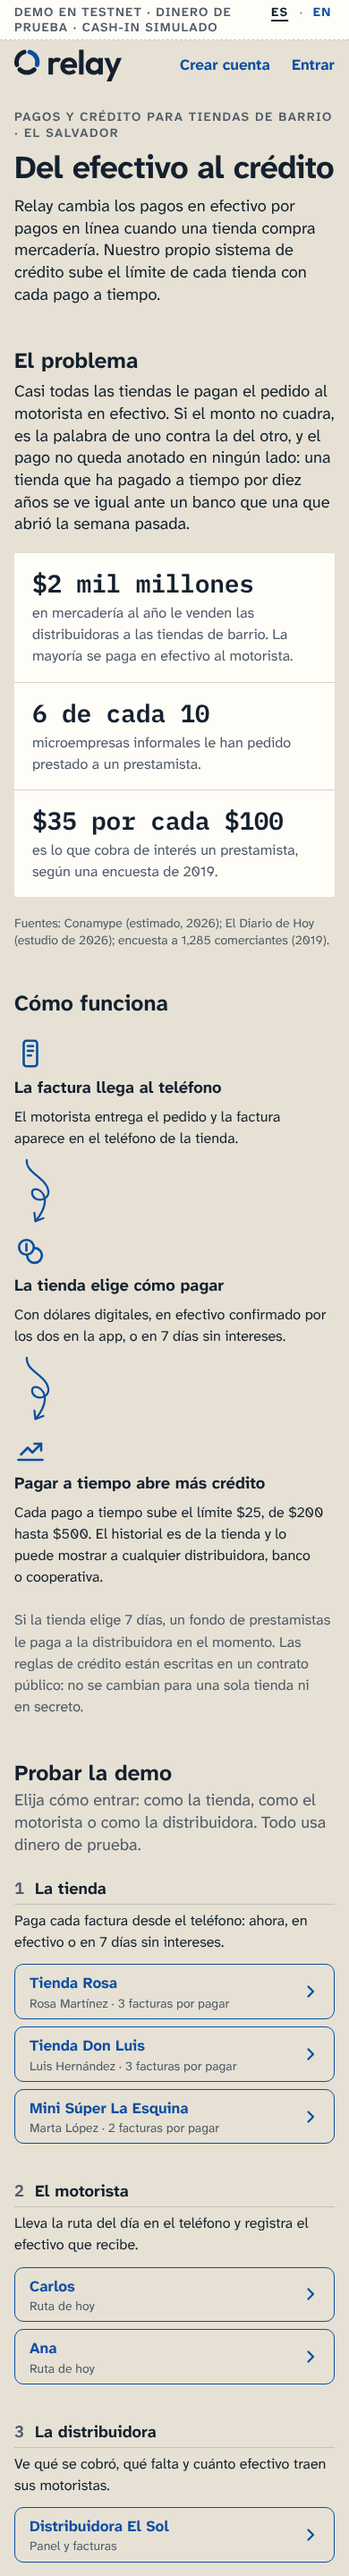
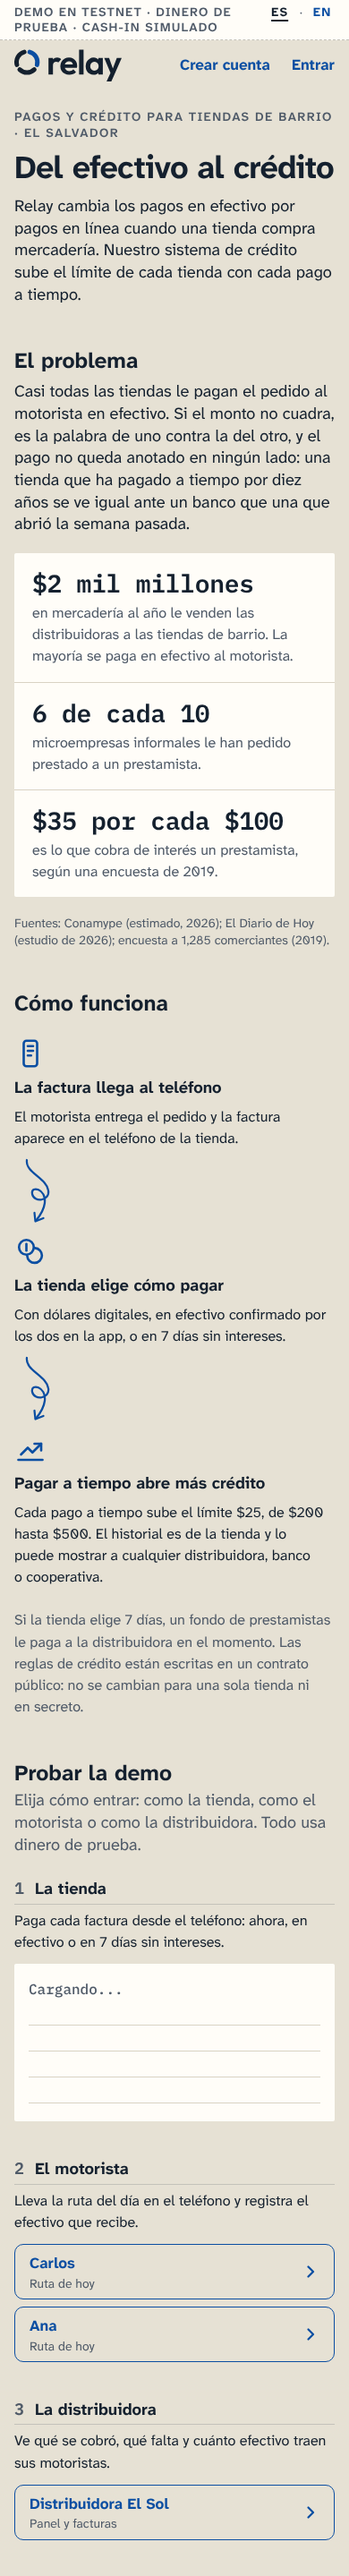
Home: drop "own" from the credit sentence
Claude-Session: https://claude.ai/code/session_012ShQukY565b6Ed76kj7NKX

Changed region(s): [[0.0308, 0.7422, 0.9846, 0.9896], [0.0615, 0.0928, 0.8615, 0.1237]]

diff --git a/app/page.tsx b/app/page.tsx
@@ -127,8 +127,8 @@ export default function Home() {
           </h1>
           <p className="text-lead text-pretty">
             <T
-              es="Relay cambia los pagos en efectivo por pagos en línea cuando una tienda compra mercadería. Nuestro propio sistema de crédito sube el límite de cada tienda con cada pago a tiempo."
-              en="Relay replaces cash payments with online transactions when a shop buys inventory. Our own credit system raises each shop's limit with every on-time payment."
+              es="Relay cambia los pagos en efectivo por pagos en línea cuando una tienda compra mercadería. Nuestro sistema de crédito sube el límite de cada tienda con cada pago a tiempo."
+              en="Relay replaces cash payments with online transactions when a shop buys inventory. Our credit system raises each shop's limit with every on-time payment."
             />
           </p>
         </div>
